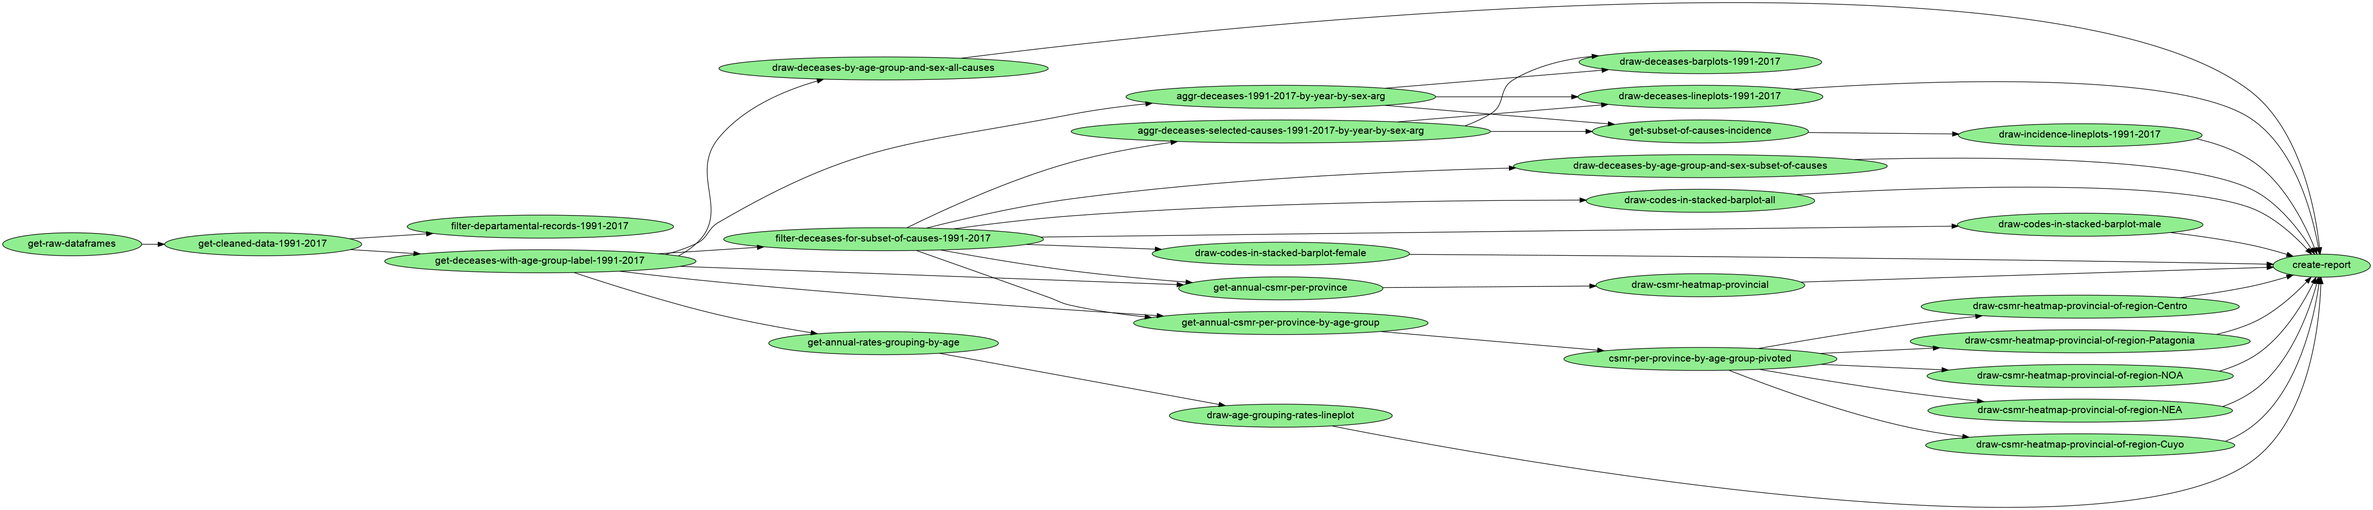
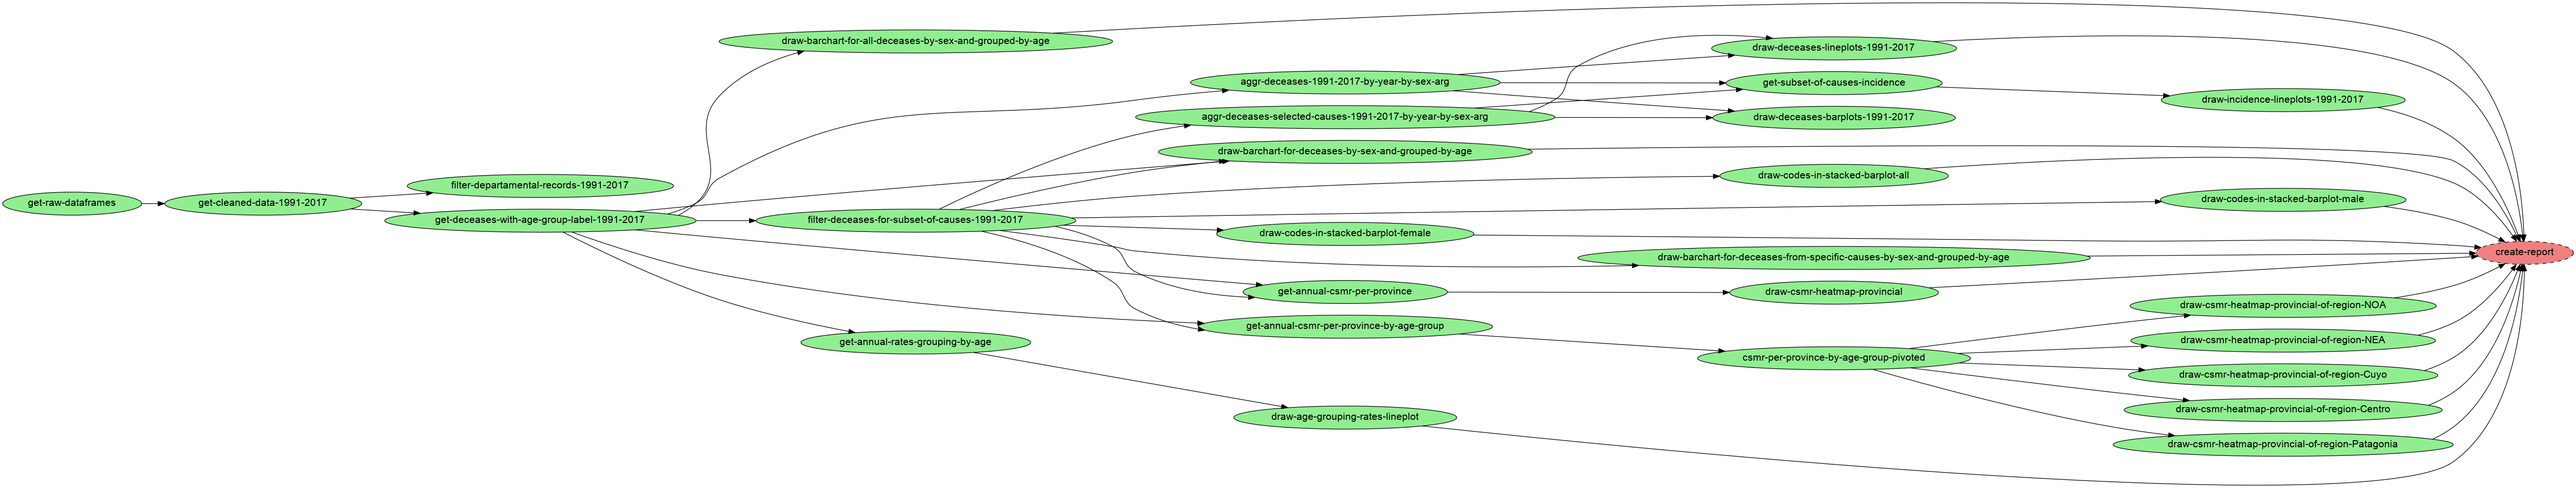
bar chart with number of total and specific deceases

diff --git a/tasks/report.py b/tasks/report.py
@@ -4,47 +4,50 @@ import pandas
 
 
 def create_report(upstream, product, causeName, causesCodes, ageCategoryCauses):
-    
-    causesCodes_used = ', '.join(causesCodes)
-    ageCategoryCauses_used = ', '.join(ageCategoryCauses)
+    causesCodes_used = ", ".join(causesCodes)
+    ageCategoryCauses_used = ", ".join(ageCategoryCauses)
     _codesGrouping = utils.get_codes_categorization(pandas.Series(causesCodes))
-    codesGrouping_used = '\n'.join([f'<li>"{k}" -> {v}</li>' for k, v in _codesGrouping.items()])
+    codesGrouping_used = "\n".join(
+        [f'<li>"{k}" -> {v}</li>' for k, v in _codesGrouping.items()]
+    )
     codesGrouping_used = f'<ul>"{codesGrouping_used}</ul>'
-    
+
     report = Report(
         title=causeName,
         subtitle="Epidemiology report",
-        experiment_params=[{
-            'title': 'Códigos',
-            'desc': f'Listado de códigos referidos a {causeName}',
-            'value': causesCodes_used,
-        },
-        {
-            'title': 'Categorias',
-            'desc': 'Grupos etarios definidos',
-            'value': ageCategoryCauses_used,
-        },
-        {
-            'title': 'Agrupamientos',
-            'desc': 'Los códigos de las causas se agruparon según las siguientes características',
-            'value': codesGrouping_used,
-        }]
+        experiment_params=[
+            {
+                "title": "Códigos",
+                "desc": f"Listado de códigos referidos a {causeName}",
+                "value": causesCodes_used,
+            },
+            {
+                "title": "Categorias",
+                "desc": "Grupos etarios definidos",
+                "value": ageCategoryCauses_used,
+            },
+            {
+                "title": "Agrupamientos",
+                "desc": "Los códigos de las causas se agruparon según las siguientes características",
+                "value": codesGrouping_used,
+            },
+        ],
     )
 
     # add section:
     report.add_section(
-        title=f'Cantidad de fallecidos por la causa {causeName}',
-        figure=str(upstream['draw-codes-in-stacked-barplot-all'])   
+        title=f"Cantidad de fallecidos por la causa {causeName}",
+        figure=str(upstream["draw-codes-in-stacked-barplot-all"]),
     )
     report.add_section(
-        title=f'Cantidad de fallecidos por la causa {causeName} (varones)',
-        figure=str(upstream['draw-codes-in-stacked-barplot-male'])   
+        title=f"Cantidad de fallecidos por la causa {causeName} (varones)",
+        figure=str(upstream["draw-codes-in-stacked-barplot-male"]),
     )
     report.add_section(
-        title=f'Cantidad de fallecidos por la causa {causeName} (mujeres)',
-        figure=str(upstream['draw-codes-in-stacked-barplot-female'])   
+        title=f"Cantidad de fallecidos por la causa {causeName} (mujeres)",
+        figure=str(upstream["draw-codes-in-stacked-barplot-female"]),
     )
-    desc = '''
+    desc = """
         <p>I		- A00-B99 - Ciertas enfermedades infecciosas y parasitarias </p>
         <p>II		- C00-D48 - Neoplasias </p>
         <p>III		- D50-D89 - Enfermedades de la sangre y de los órganos hematopoyéticos y otros trastornos que afectan el mecanismo de la inmunidad </p>
@@ -67,67 +70,79 @@ def create_report(upstream, product, causeName, causesCodes, ageCategoryCauses):
         <p>XX		- V01-Y98 - Causas externas de morbilidad y de mortalidad </p>
         <p>XXI		- Z00-Z99 - Factores que influyen en el estado de salud y contacto con los servicios de salud </p>
         <p>XXII	- U00-U99 - Códigos para situaciones especiales </p>
-    '''
+    """
     report.add_section(
-        title=f'Referencia:',
+        title=f"Referencia:",
         text=desc,
     )
     report.add_section(
-        title=f'Cantidad de fallecidos en Argentina',
+        title=f"Cantidad de fallecidos en Argentina",
         text="Fallecimientos de varones y mujeres por grupo etario",
-        figure=str(upstream['draw-deceases-by-age-group-and-sex-all-causes'])   
+        figure=str(
+            upstream["draw-barchart-for-all-deceases-by-sex-and-grouped-by-age"]
+        ),
     )
 
     report.add_section(
-        title=f'Cantidad de fallecidos por la causa {causeName}',
+        title=f"Cantidad de fallecidos por la causa {causeName}",
         text="Fallecimientos de varones y mujeres por grupo etario",
-        figure=str(upstream['draw-deceases-by-age-group-and-sex-subset-of-causes'])   
+        figure=str(
+            upstream[
+                "draw-barchart-for-deceases-from-specific-causes-by-sex-and-grouped-by-age"
+            ]
+        ),
     )
 
     report.add_section(
-        title=f'Tendencia de fallecimientos',
+        title=f"Fallecimientos totales y específicos en Argentina",
+        text="Fallecimientos de varones y mujeres por grupo etario",
+        figure=str(upstream["draw-barchart-for-deceases-by-sex-and-grouped-by-age"]),
+    )
+
+    report.add_section(
+        title=f"Tendencia de fallecimientos",
         text="Cantidades de fallecidos por año y sexo",
-        figure=str(upstream['draw-deceases-lineplots-1991-2017'])
+        figure=str(upstream["draw-deceases-lineplots-1991-2017"]),
     )
 
     report.add_section(
-        title=f'Incidencia',
+        title=f"Incidencia",
         text=f"Fallecimientos a causa de {causeName} por cada 100,000 fallecimientos",
-        figure=str(upstream['draw-incidence-lineplots-1991-2017'])
-    )
-    
-    report.add_section(
-        title='Tasas anuales por grupo etario',
-        text=f"Tasa: Fallecimientos a causa de {causeName} por cada 1,000 fallecimientos",
-        figure=str(upstream['draw-age-grouping-rates-lineplot'])    
-    )
-    
-    report.add_section(
-        title='Tasa de mortallidad por causas espacíficas (Cause-specifict mortality rate, CSMR).',
-        text=f"Tasa: Fallecimientos a causa de {causeName} por cada 1,000 fallecimientos en cada provincia",
-        figure=str(upstream['draw-csmr-heatmap-provincial'])
+        figure=str(upstream["draw-incidence-lineplots-1991-2017"]),
     )
 
     report.add_section(
-        title=f'CSMR para la region NOA por grupo etário.',
-        figure=str(upstream['draw-csmr-heatmap-provincial-of-region-NOA'])   
+        title="Tasas anuales por grupo etario",
+        text=f"Tasa: Fallecimientos a causa de {causeName} por cada 1,000 fallecimientos",
+        figure=str(upstream["draw-age-grouping-rates-lineplot"]),
+    )
+
+    report.add_section(
+        title="Tasa de mortallidad por causas espacíficas (Cause-specifict mortality rate, CSMR).",
+        text=f"Tasa: Fallecimientos a causa de {causeName} por cada 1,000 fallecimientos en cada provincia",
+        figure=str(upstream["draw-csmr-heatmap-provincial"]),
+    )
+
+    report.add_section(
+        title=f"CSMR para la region NOA por grupo etário.",
+        figure=str(upstream["draw-csmr-heatmap-provincial-of-region-NOA"]),
     )
     report.add_section(
-        title=f'CSMR para la region NEA por grupo etário.',
-        figure=str(upstream['draw-csmr-heatmap-provincial-of-region-NEA'])   
+        title=f"CSMR para la region NEA por grupo etário.",
+        figure=str(upstream["draw-csmr-heatmap-provincial-of-region-NEA"]),
     )
     report.add_section(
-        title=f'CSMR para la region Centro por grupo etário.',
-        figure=str(upstream['draw-csmr-heatmap-provincial-of-region-Centro'])   
+        title=f"CSMR para la region Centro por grupo etário.",
+        figure=str(upstream["draw-csmr-heatmap-provincial-of-region-Centro"]),
     )
     report.add_section(
-        title=f'CSMR para la region Cuyo por grupo etário.',
-        figure=str(upstream['draw-csmr-heatmap-provincial-of-region-Cuyo'])   
+        title=f"CSMR para la region Cuyo por grupo etário.",
+        figure=str(upstream["draw-csmr-heatmap-provincial-of-region-Cuyo"]),
     )
     report.add_section(
-        title=f'CSMR para la region Patagonia por grupo etário.',
-        figure=str(upstream['draw-csmr-heatmap-provincial-of-region-Patagonia'])   
+        title=f"CSMR para la region Patagonia por grupo etário.",
+        figure=str(upstream["draw-csmr-heatmap-provincial-of-region-Patagonia"]),
     )
-    
+
     # save:
-    report.build(str(product))  
+    report.build(str(product))

diff --git a/tasks/visualization.py b/tasks/visualization.py
@@ -168,8 +168,8 @@ def draw_incidence_lineplots(upstream, product):
     plt.close()
 
 
-def draw_causes_deceases_by_age_group_and_sex(
-    upstream, product, categoryDisplayOrder, causeName
+def draw_barchart_for_deceases_from_specific_causes_by_sex_and_grouped_by_age(
+    upstream, product, categoryDisplayOrder, causeName, catplotArgs
 ):
     """
     Dibuja un grafico de barras categorizadas por grupo etario.
@@ -185,13 +185,14 @@ def draw_causes_deceases_by_age_group_and_sex(
         .count()
         .reset_index()
         .rename(columns={"provincia_id": "count"})
-        .replace({"mujer": "female", "varon": "male"})
+        .replace({"mujer": "Female", "varon": "Male"})
     )
 
     counts_df = counts_df[~(counts_df["sex"] == "indeterminado")]
 
     # Draw a nested barplot by age group and sex
     seaborn.set_theme(style="whitegrid")
+    catplotPalette = catplotArgs["palette_two_soft"]
     g = seaborn.catplot(
         data=counts_df,
         kind="bar",
@@ -201,7 +202,7 @@ def draw_causes_deceases_by_age_group_and_sex(
         alpha=0.6,
         height=6,
         order=categoryDisplayOrder,
-        palette=["orange", "blue"],
+        palette=catplotPalette,
     )
 
     g.despine(left=True)
@@ -215,7 +216,9 @@ def draw_causes_deceases_by_age_group_and_sex(
     g.savefig(str(product), dpi=300)
 
 
-def draw_all_deceases_by_age_group_and_sex(upstream, product, categoryDisplayOrder):
+def draw_barchart_for_all_deceases_by_sex_and_grouped_by_age(
+    upstream, product, categoryDisplayOrder, catplotArgs
+):
     """
     Dibuja todos los fallecimientos de la Argentina en el período de estudio en un
     grafico de barras categorizadas por grupo etario.
@@ -231,14 +234,21 @@ def draw_all_deceases_by_age_group_and_sex(upstream, product, categoryDisplayOrd
         .count()
         .reset_index()
         .rename(columns={"provincia_id": "count"})
-        .replace({"mujer": "female", "varon": "male"})
+        .replace({"mujer": "Female", "varon": "Male"})
     )
-    # renombramos provincia_id pero podría haber sido cualquiera de las columnas
 
+    # renombramos provincia_id pero podría haber sido cualquiera de las columnas
     counts_df = counts_df[~(counts_df["sex"] == "indeterminado")]
+
+    #   age_group     sex   count
+    # 1     0 - 5  female  151127
+    # 2     0 - 5    male  193697
+    # 3   16 - 35  female  103172
+    # 4   ...
 
     # Draw a nested barplot by age group and sex
     seaborn.set_theme(style="whitegrid")
+    catplotPalette = catplotArgs["palette_two"]
     g = seaborn.catplot(
         data=counts_df,
         kind="bar",
@@ -248,7 +258,7 @@ def draw_all_deceases_by_age_group_and_sex(upstream, product, categoryDisplayOrd
         alpha=0.6,
         height=6,
         order=categoryDisplayOrder,
-        palette=["orange", "blue"],
+        palette=catplotPalette,
     )
 
     g.despine(left=True)
@@ -257,6 +267,77 @@ def draw_all_deceases_by_age_group_and_sex(upstream, product, categoryDisplayOrd
     g.ax.set_xticklabels(categoryDisplayOrder, size=ticklabelsSize)
     g.legend.set_title("")
     g.fig.suptitle("Deceases in Argentina by age group and sex (1991-2017)")
+    g.ax.get_yaxis().set_major_formatter(
+        ticker.FuncFormatter(lambda x, p: format(int(x), ","))
+    )
+
+    g.savefig(str(product), dpi=300)
+
+
+def draw_barchart_for_deceases_by_sex_and_grouped_by_age(
+    upstream, product, categoryDisplayOrder, causeName, catplotArgs
+):
+    """
+    Dibuja todos los fallecimientos de la Argentina en el período de estudio en un
+    grafico de barras categorizadas por grupo etario.
+    """
+    df = pandas.read_parquet(
+        str(upstream["get-deceases-with-age-group-label-1991-2017"])
+    )
+    df_specific_causes = pandas.read_parquet(
+        str(upstream["filter-deceases-for-subset-of-causes-1991-2017"])
+    )
+
+    df["sex"] = cleanning.get_sex_correspondence(df["sexo"])
+    counts_df = (
+        df[["provincia_id", "age_group", "sex"]]
+        .groupby(["age_group", "sex"])
+        .count()
+        .reset_index()
+        .rename(columns={"provincia_id": "count"})
+        .replace({"mujer": "Female", "varon": "Male"})
+    )
+    # renombramos provincia_id pero podría haber sido cualquiera de las columnas
+    counts_df = counts_df[~(counts_df["sex"] == "indeterminado")]
+
+    df_specific_causes["sex"] = cleanning.get_sex_correspondence(
+        df_specific_causes["sexo"]
+    )
+    counts_df_specific_causes = (
+        df_specific_causes[["provincia_id", "age_group", "sex"]]
+        .groupby(["age_group", "sex"])
+        .count()
+        .reset_index()
+        .rename(columns={"provincia_id": "count"})
+        .replace({"mujer": f"Female ({causeName})", "varon": f"Male ({causeName})"})
+    )
+    counts_df_specific_causes = counts_df_specific_causes[
+        ~(counts_df_specific_causes["sex"] == "indeterminado")
+    ]
+
+    # Draw a nested barplot by age group and sex
+    catplotData = counts_df.append(counts_df_specific_causes).sort_values(by="sex")
+    catplotPalette = catplotArgs["palette_four"]
+    seaborn.set_theme(style="whitegrid")
+    g = seaborn.catplot(
+        data=catplotData,
+        kind="bar",
+        x="age_group",
+        y="count",
+        hue="sex",
+        hue_order=["Female", f"Female ({causeName})", "Male", f"Male ({causeName})"],
+        alpha=0.6,
+        height=8,
+        order=categoryDisplayOrder,
+        palette=catplotPalette,
+    )
+
+    g.despine(left=True)
+    g.set_axis_labels("", "Deceases (u)")
+    ticklabelsSize = 12 if len(categoryDisplayOrder) < 5 else 8
+    g.ax.set_xticklabels(categoryDisplayOrder, size=ticklabelsSize)
+    g.legend.set_title("")
+    g.fig.suptitle("Deceases in Argentina. By age group and sex (1991-2017)")
     g.ax.get_yaxis().set_major_formatter(
         ticker.FuncFormatter(lambda x, p: format(int(x), ","))
     )

diff --git a/tasks/csmr.py b/tasks/csmr.py
@@ -19,6 +19,7 @@ import pandas
 from surnames_package import utils
 import seaborn
 import matplotlib.pyplot as plt
+from epidemiology_package import vis as epidemiology_vis
 
 
 def calculate_annual_csmr_per_province(upstream, product):
@@ -332,6 +333,7 @@ def draw_csmr_heatmap_provincial_of_region(upstream, product, regionName):
     n_provincias = len(regionData["provincia_nombre"].unique())
 
     if n_provincias == 0:
+        # TODO: Contemplar el caso en el que no haya información para las provincias de una región
         print("No hay provincias")
         return
 
@@ -348,16 +350,14 @@ def draw_csmr_heatmap_provincial_of_region(upstream, product, regionName):
     figWidth = 8
     figHeight = n_provincias * single_province_info_height
 
-    from epidemiology_package import vis
-
-    vis.draw_heatmap(
+    epidemiology_vis.draw_heatmap(
         pivoted_data=regionData,
         figWidth=figWidth,
         figHeight=figHeight,
         minValue=min_value,
         maxValue=max_value,
     )
-    # TODO: Ejecutar pipelina!!
+
     # set labels and title
     plt.xlabel("Year")
     plt.ylabel("Province")
